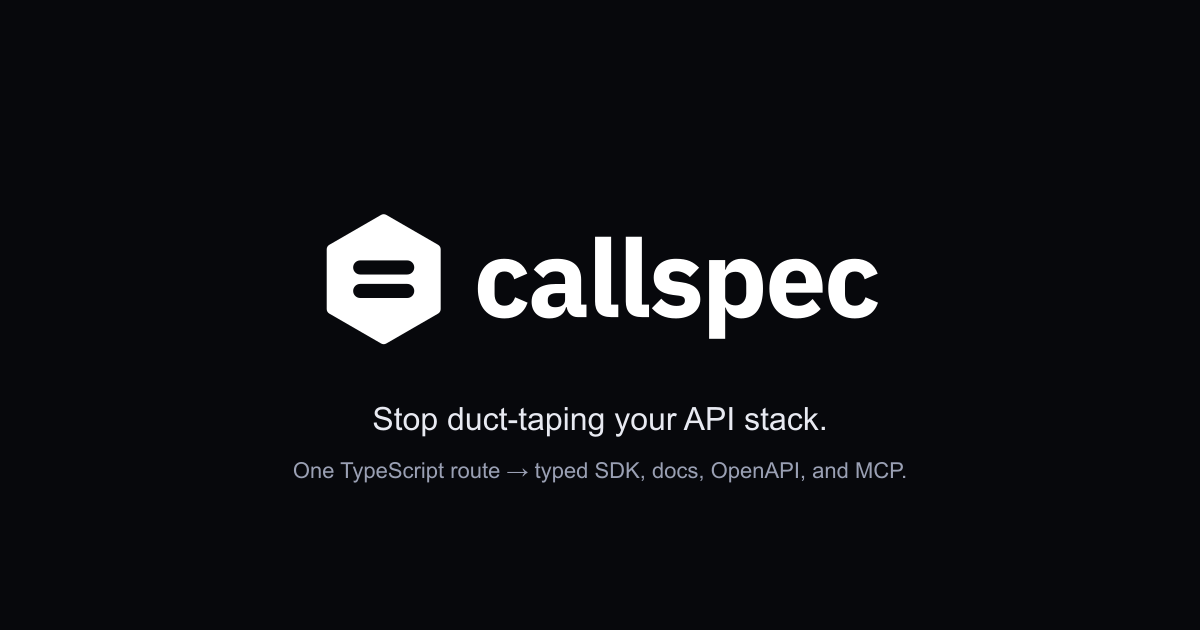
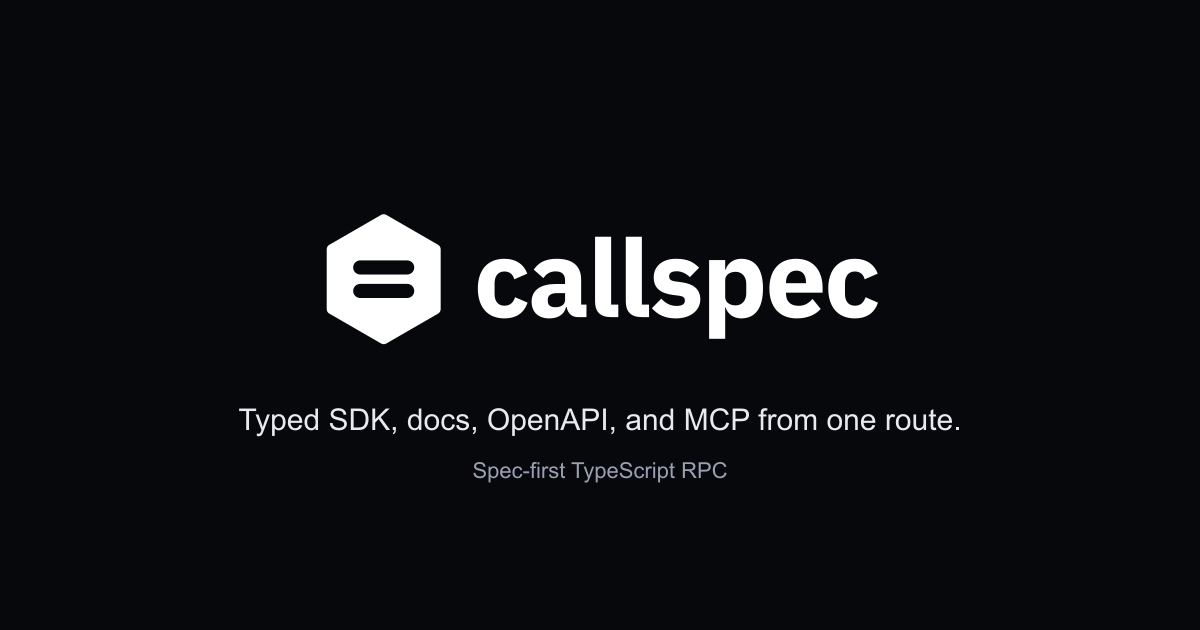
fix: say what Callspec does in the share title
The OG card titled just "Callspec" and led with the duct-tape line.
Share title and image now name the product and the payoff.

Changed region(s): [[0.185, 0.6333, 0.8017, 0.6937], [0.2467, 0.7238, 0.7708, 0.7841]]

diff --git a/src/siteSocial.spec.ts b/src/siteSocial.spec.ts
@@ -5,6 +5,9 @@ import {test} from 'kizu';
 
 const root = path.join(path.dirname(fileURLToPath(import.meta.url)), '..');
 const ogPngPath = path.join(root, 'assets/og.png');
+const shareTitle = 'Callspec — typed SDK, docs, OpenAPI, and MCP from one route';
+const shareDescription =
+    'Spec-first TypeScript RPC. Define a route once and get a typed SDK, docs, OpenAPI, and MCP from the same contract.';
 
 function pngSize(buf: Buffer): {width: number; height: number} {
     return {
@@ -13,13 +16,14 @@ function pngSize(buf: Buffer): {width: number; height: number} {
     };
 }
 
-test('homepage document title is Callspec, not Home', (assert) => {
+test('homepage share title is Callspec plus what it does', (assert) => {
 
     const index = readFileSync(path.join(root, 'src/pages/index.astro'), 'utf8');
 
     assert.equal(index.includes("\t\ttitle: 'Home'"), false);
-    assert.equal(index.includes("\t\ttitle: 'Callspec'"), true);
-    assert.equal(index.includes("{tag: 'title', content: 'Callspec'}"), true);
+    assert.equal(index.includes(`\t\ttitle: '${shareTitle}'`), true);
+    assert.equal(index.includes(`{tag: 'title', content: '${shareTitle}'}`), true);
+    assert.equal(index.includes(`description:\n\t\t\t'${shareDescription}'`), true);
 
 });
 
@@ -37,5 +41,13 @@ test('docs site publishes a branded Open Graph image', (assert) => {
     assert.equal(astro.includes('og:image:width'), true);
     assert.equal(astro.includes('og:image:height'), true);
     assert.equal(astro.includes('og:image:alt'), true);
+    assert.equal(astro.includes(shareTitle), true);
+    assert.equal(astro.includes(shareDescription), true);
+
+    const ogSvg = readFileSync(path.join(root, 'assets/og.svg'), 'utf8');
+
+    assert.equal(ogSvg.includes('Stop duct-taping'), false);
+    assert.equal(ogSvg.includes('Typed SDK, docs, OpenAPI, and MCP from one route.'), true);
+    assert.equal(ogSvg.includes('Spec-first TypeScript RPC'), true);
 
 });
